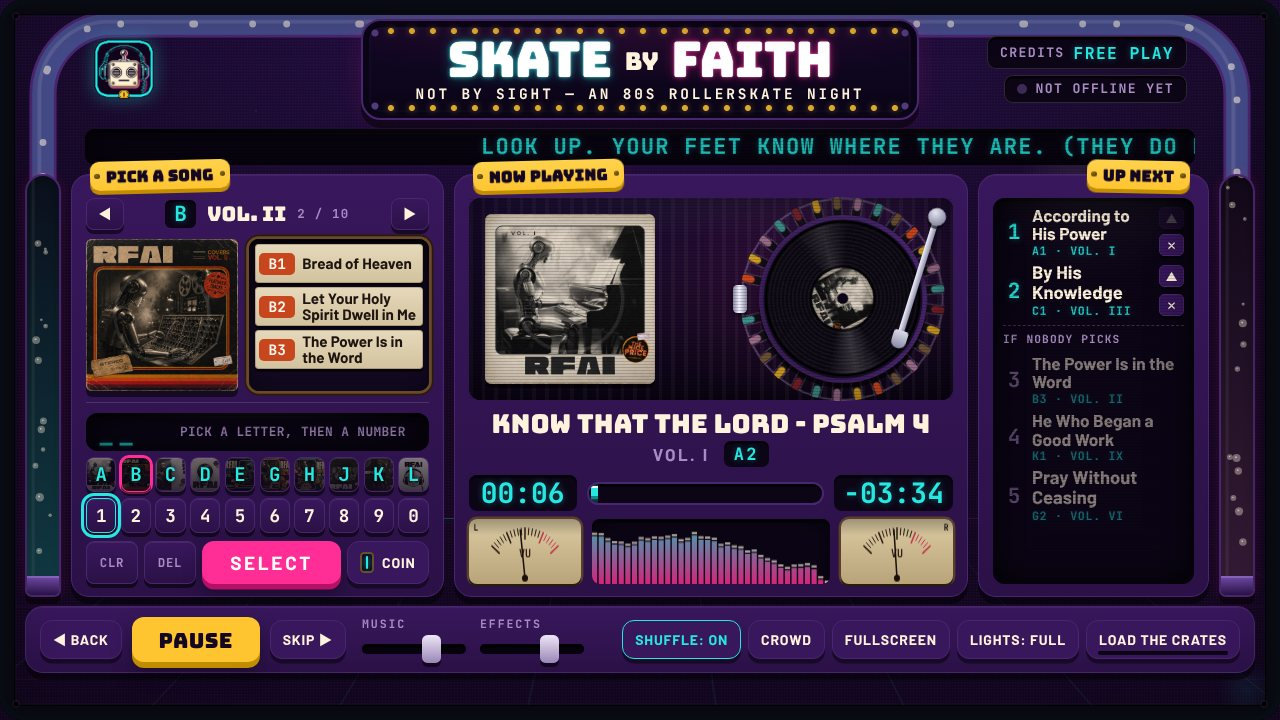
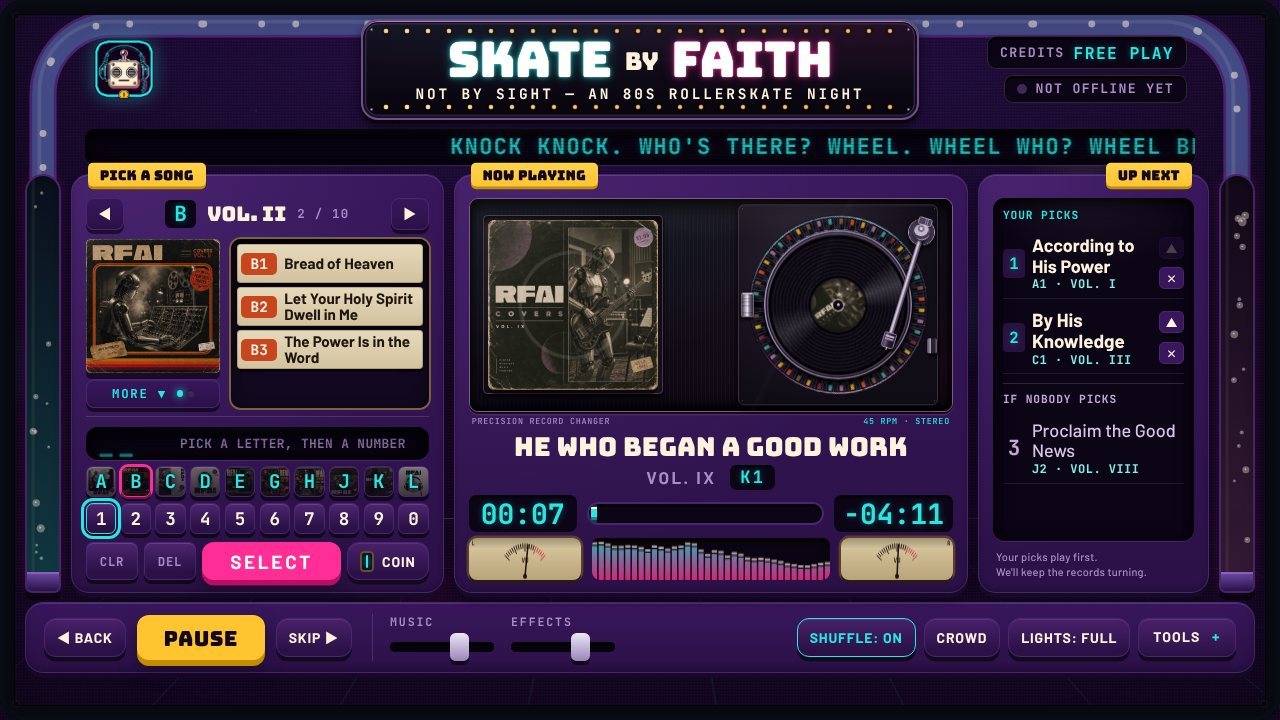
feat: MORE is a push-button; the strip window no longer scrolls
The title-strip window shows as many strips as fit (3 at 1280x720) and a
MORE push-button under the album cover turns to the next group, wrapping
back to the first, with a page-turn clack and small lamps showing which
group is up. Typing a code turns to the group holding its strip. No wheel
or scrollbar. The button sits under the cover (cover 134px at 720p, a
little smaller than before) and the selector was trimmed slightly to make
room. The crowd screen has no button and still shows every strip. All 47
codes tested. README and DESIGN updated.

Claude-Session: https://claude.ai/code/session_019UepSTK4gBiwDTjkX8XKsc

diff --git a/styles.css b/styles.css
@@ -482,7 +482,7 @@ body.on-attract .rig{ visibility:hidden; }
 
 /* ================= LEFT THIRD: the rack page + the selector ================= */
 /* one panel: the rack page on top, the selector keys underneath */
-.choose{ display:flex; flex-direction:column; gap:.55rem; }
+.choose{ display:flex; flex-direction:column; gap:.4rem; }
 .sr-only{ position:absolute; width:1px; height:1px; margin:-1px; padding:0; overflow:hidden; clip:rect(0 0 0 0); white-space:nowrap; border:0; }
 
 .rack-panel{ flex:1; min-height:0; display:flex; flex-direction:column; gap:.45rem; }
@@ -501,26 +501,36 @@ body.on-attract .rig{ visibility:hidden; }
 .rack-title{ font:400 1rem/1 var(--font-display); color:var(--cream); text-transform:uppercase; white-space:nowrap; }
 .rack-count{ font:700 .62rem var(--font-mono); letter-spacing:.1em; color:var(--dim); }
 
-/* the page: a big sleeve with its title strips beside it. The sleeve is as
-   tall as the page (square), capped so the strips keep room to read. */
-.rack-page{ flex:1; min-height:0; display:flex; gap:.55rem; }
-.rack-sleeve{ flex:0 0 auto; height:100%; aspect-ratio:1; max-width:46%; }
+/* the page: a big sleeve with its title strips beside it. The left column is
+   the cover with the MORE button under it, sized from the page's own height
+   (cqh), capped so the strips keep room to read. */
+.rack-page{ flex:1; min-height:0; display:flex; gap:.55rem; container-type:size; }
+.rack-side{ flex:none; width:min(calc(100cqh - 1.75rem), 46cqw); display:flex; flex-direction:column; gap:.3rem; }
+.rack-side .rack-sleeve{ width:100%; aspect-ratio:1; flex:none; }
+/* MORE: a chunky push-button; its lamps show which group of strips is showing */
+.more-btn{
+  flex:none; height:1.45rem; padding:0 .5rem; display:flex; align-items:center; justify-content:center; gap:.5rem; cursor:pointer;
+  font:700 .62rem var(--font-mono); letter-spacing:.14em; color:var(--cyan);
+  background:linear-gradient(180deg, var(--cab-2), var(--cab)); border:1px solid var(--cab-edge); border-radius:.4rem;
+  box-shadow:0 .2rem 0 rgba(0,0,0,.55), inset 0 1px 0 rgba(255,255,255,.08);
+  transition:transform .08s var(--ease-out), box-shadow .08s var(--ease-out);
+}
+.more-btn:hover:not(:disabled){ border-color:var(--cyan); color:#E9FFFE; }
+.more-btn:active:not(:disabled){ transform:translateY(.18rem); box-shadow:0 .03rem 0 rgba(0,0,0,.55), inset 0 0 .5rem rgba(37,232,226,.35); }
+.more-btn:disabled{ opacity:.35; cursor:default; color:var(--dim); }
+.more-lamps{ display:inline-flex; gap:.22rem; }
+.more-lamps i{ width:.32rem; height:.32rem; border-radius:50%; background:#3d2a55; box-shadow:inset 0 .05rem 0 rgba(0,0,0,.5); }
+.more-lamps i.is-on{ background:var(--cyan); box-shadow:0 0 .4rem var(--cyan); }
+.strip.is-off{ display:none; }
 .rack-sleeve .sleeve{ box-shadow:0 .3rem 0 rgba(0,0,0,.55), inset 0 0 0 1px rgba(60,40,10,.35); }
 
 /* the title strips: read-only paper in a dark brass-framed window */
-.strips-wrap{ position:relative; flex:1; min-width:0; display:flex; }
+.strips-wrap{ flex:1; min-width:0; display:flex; }
 .strips{
-  flex:1; min-width:0; align-self:stretch; min-height:0; overflow-y:auto; overflow-x:hidden;
+  flex:1; min-width:0; align-self:stretch; min-height:0; overflow:hidden;      /* never scrolls: the MORE button turns the page */
   padding:.28rem; border-radius:.5rem; background:linear-gradient(180deg,#0d0618,#140a24);
   box-shadow:var(--inset),0 0 0 .1rem #80613D;
-  scrollbar-width:thin; scrollbar-color:var(--cab-edge) transparent;
 }
-.strips-more{
-  position:absolute; left:50%; bottom:.35rem; z-index:2; transform:translateX(-50%); pointer-events:none;
-  padding:.12rem .45rem; border-radius:.25rem; background:var(--screen); box-shadow:0 0 0 1px var(--cab-edge), 0 -.6rem .8rem rgba(13,6,24,.9);
-  font:700 .55rem/1 var(--font-mono); letter-spacing:.12em; color:var(--cyan); opacity:0; transition:opacity .2s ease;
-}
-.strips-more.is-shown{ opacity:1; }
 .strips-empty{ margin:1rem .4rem; color:var(--dim); font:700 .66rem var(--font-mono); letter-spacing:.08em; text-align:center; }
 .strip{
   --paper:linear-gradient(180deg,#E6D9BB,#D2C29E);
@@ -551,7 +561,7 @@ body.on-attract .rig{ visibility:hidden; }
 
 /* ---- the selector ---- */
 .keypad-panel{ flex:0 0 auto; display:flex; flex-direction:column; gap:.3rem; padding-top:.5rem; border-top:1px solid var(--line); }
-.readout{ display:grid; grid-template-columns:auto 1fr; align-items:center; gap:.7rem; padding:.15rem .6rem; min-height:1.9rem; }
+.readout{ display:grid; grid-template-columns:auto 1fr; align-items:center; gap:.7rem; padding:.1rem .6rem; min-height:1.65rem; }
 .readout-code{ position:relative; z-index:1; font-size:1.35rem; line-height:1; letter-spacing:.14em; min-width:3.4rem; opacity:.7; }
 .readout-code.is-typing{ opacity:1; }
 .readout-msg{ position:relative; z-index:1; font:700 .64rem/1.2 var(--font-mono); letter-spacing:.03em; color:var(--cream); }
@@ -562,7 +572,7 @@ body.on-attract .rig{ visibility:hidden; }
 .key-letters{ display:grid; grid-template-columns:repeat(var(--letter-cols, 10), minmax(0,1fr)); gap:.22rem; }
 .key-digits{ display:grid; grid-template-columns:repeat(10, minmax(0,1fr)); gap:.22rem; }
 .key{
-  height:1.75rem; padding:0; cursor:pointer; line-height:1;
+  height:1.55rem; padding:0; cursor:pointer; line-height:1;
   font:700 .88rem var(--font-mono); color:var(--cream);
   background:linear-gradient(180deg,#4D2670,var(--cab) 80%); border:1px solid var(--cab-edge); border-radius:.35rem;
   box-shadow:0 .2rem 0 #12081E,inset 0 1px 0 rgba(226,190,255,.17);
@@ -583,7 +593,7 @@ body.on-attract .rig{ visibility:hidden; }
   box-shadow:0 .04rem 0 rgba(0,0,0,.55), inset 0 0 .6rem rgba(37,232,226,.45), 0 0 .5rem rgba(37,232,226,.3);
 }
 .key-letter.is-latched{ background:linear-gradient(180deg, rgba(37,232,226,.18), rgba(12,5,22,.6)), var(--cover, none) center / cover, var(--cab); }
-.keypad-actions{ display:grid; grid-template-columns:2.6rem 2.6rem minmax(0,1fr) auto; grid-template-rows:2.15rem; gap:.3rem; align-items:stretch; margin-top:.1rem; }
+.keypad-actions{ display:grid; grid-template-columns:2.6rem 2.6rem minmax(0,1fr) auto; grid-template-rows:1.9rem; gap:.3rem; align-items:stretch; margin-top:.1rem; }
 .keypad-actions .key{ height:auto; }
 #btn-coin{ display:inline-flex; align-items:center; gap:.4rem; padding:.4rem .6rem; }
 .coin-slot{ position:relative; width:.7rem; height:1.05rem; border-radius:.2rem; background:var(--screen); box-shadow:inset 0 0 0 .1rem #6a4a2a; flex:none; }
@@ -842,7 +852,9 @@ body.is-crowd .rig{ grid-template-rows:auto auto minmax(0,1fr); padding-bottom:1
 body.is-crowd .rack-bar{ grid-template-columns:minmax(0,1fr); }
 /* nobody can scroll the crowd screen, so every strip must show: the strips
    take the height they need and the sleeve shrinks to fit what is left */
-body.is-crowd .rack-page{ flex-direction:column; align-items:center; gap:.6rem; }
+body.is-crowd .rack-page{ flex-direction:column; align-items:center; gap:.6rem; container-type:normal; }
+body.is-crowd .rack-side{ display:contents; }
+body.is-crowd .more-btn{ display:none; }
 body.is-crowd .rack-sleeve{ flex:1 1 0; min-height:5rem; height:auto; width:auto; max-width:100%; max-height:13rem; aspect-ratio:1; }
 body.is-crowd .rack-sleeve .sleeve{ width:auto; height:100%; }
 body.is-crowd .strips-wrap{ width:100%; flex:0 0 auto; }

diff --git a/ui.js b/ui.js
@@ -114,12 +114,16 @@ export function createUI({ library, getStatus, handlers }) {
     const sleeve = rackSleeves.get(volumeId);
     if ($('rack-sleeve').firstChild !== sleeve) $('rack-sleeve').replaceChildren(sleeve);
 
+    if (stripsVolumeId !== volumeId) stripPage = 0;       // a new album starts on its first page
+    stripsVolumeId = volumeId;
     stripsEl.replaceChildren();
     stripRows.clear();
     stripsEl.dataset.accent = v.accent || 'gold';
     const list = library.tracks.filter((t) => t.volume === volumeId);
     if (list.length === 0) {
       stripsEl.append(el('p', { class: 'strips-empty' }, 'NO SONGS ON THIS ALBUM YET'));
+      stripPages = [];
+      updateMoreButton();
       return;
     }
     for (const t of list) {
@@ -135,19 +139,77 @@ export function createUI({ library, getStatus, handlers }) {
       stripRows.set(t.id, row);
       stripsEl.append(row);
     }
-    stripsEl.scrollTop = 0;
-    updateMoreCue();
+    paginateStrips();
   }
 
-  /* An album with more songs than fit scrolls inside the strip window. The
-     MORE tag shows while there are songs below, and typing a code scrolls
-     its strip into view. */
-  function updateMoreCue() {
-    const below = stripsEl.scrollHeight - stripsEl.clientHeight - stripsEl.scrollTop;
-    $('strips-more').classList.toggle('is-shown', below > 12);
+  /* ---- MORE: the strip window never scrolls ----
+     Like the title-strip window on a real jukebox, it shows as many strips as
+     fit and a push-button under the cover turns to the next group (and, after
+     the last, back to the first). Typing a code turns to the group that holds
+     its strip. The crowd screen has no button, so it shows every strip. */
+  const moreBtn = $('strips-more');
+  let stripPages = [];            // arrays of rows, one per group
+  let stripPage = 0;
+  let stripsVolumeId = null;
+
+  function paginateStrips() {
+    const rows = [...stripRows.values()];
+    rows.forEach((r) => r.classList.remove('is-off'));
+    stripPages = [];
+    if (document.body.classList.contains('is-crowd')) {
+      if (rows.length) stripPages = [rows];
+    } else {
+      const css = getComputedStyle(stripsEl);
+      const room = stripsEl.clientHeight - parseFloat(css.paddingTop) - parseFloat(css.paddingBottom);
+      let group = [];
+      let used = 0;
+      for (const row of rows) {
+        const h = row.offsetHeight + (parseFloat(getComputedStyle(row).marginBottom) || 0);
+        if (group.length && used + h > room + 1) { stripPages.push(group); group = []; used = 0; }
+        group.push(row);
+        used += h;
+      }
+      if (group.length) stripPages.push(group);
+    }
+    stripPage = Math.min(stripPage, Math.max(0, stripPages.length - 1));
+    showStripPage();
   }
-  stripsEl.addEventListener('scroll', updateMoreCue, { passive: true });
-  window.addEventListener('resize', updateMoreCue);
+
+  function showStripPage() {
+    stripPages.forEach((group, i) => group.forEach((r) => r.classList.toggle('is-off', i !== stripPage)));
+    updateMoreButton();
+  }
+
+  function updateMoreButton() {
+    const pages = stripPages.length;
+    moreBtn.disabled = pages < 2;
+    moreBtn.setAttribute('aria-label', pages < 2
+      ? 'All songs on this album are showing'
+      : `More songs on this album: showing group ${stripPage + 1} of ${pages}`);
+    $('more-lamps').replaceChildren(...(pages < 2 ? [] : stripPages.map((_, i) => el('i', { class: i === stripPage ? 'is-on' : '' }))));
+  }
+
+  function turnStrips(next) {
+    if (next === stripPage || next < 0 || next >= stripPages.length) return;
+    stripPage = next;
+    showStripPage();
+    if (!isCalm()) {
+      stripsEl.animate(
+        [{ opacity: 0.3, transform: 'translateY(.5rem)' }, { opacity: 1, transform: 'none' }],
+        { duration: 220, easing: 'cubic-bezier(.2,.7,.2,1)' },
+      );
+    }
+  }
+
+  moreBtn.addEventListener('click', () => {
+    if (stripPages.length < 2) return;
+    turnStrips((stripPage + 1) % stripPages.length);
+    handlers.stripsTurned?.();
+    moreBtn.blur();                                       // so Space / arrow keys keep driving the music
+  });
+  let paginateTimer = 0;
+  window.addEventListener('resize', () => { clearTimeout(paginateTimer); paginateTimer = setTimeout(paginateStrips, 120); });
+  if (document.fonts?.ready) document.fonts.ready.then(paginateStrips).catch(() => {});
 
   /* Refresh strip states in place. Only a status shows (NOW, Q1, OUT OF ORDER);
      song lengths are left off so the titles get the room. */
@@ -209,7 +271,7 @@ export function createUI({ library, getStatus, handlers }) {
     for (const [id, row] of stripRows) {
       const isTyped = buffer.length > 1 && trackById.get(id).code === buffer;
       row.classList.toggle('is-typed', isTyped);
-      if (isTyped) row.scrollIntoView({ block: 'nearest' });
+      if (isTyped) turnStrips(stripPages.findIndex((group) => group.includes(row)));
     }
   }
 

diff --git a/index.html b/index.html
@@ -104,10 +104,14 @@
           <button type="button" class="rack-nav" id="rack-next" aria-label="Next album">&#9654;</button>
         </div>
         <div class="rack-page">
-          <div class="rack-sleeve" id="rack-sleeve"></div>
+          <div class="rack-side">
+            <div class="rack-sleeve" id="rack-sleeve"></div>
+            <button type="button" class="more-btn" id="strips-more" disabled aria-label="More songs on this album">
+              <span class="more-label">MORE &#9660;</span><span class="more-lamps" id="more-lamps" aria-hidden="true"></span>
+            </button>
+          </div>
           <div class="strips-wrap">
             <div class="strips" id="strips" role="list" aria-label="Songs on this album"></div>
-            <span class="strips-more" id="strips-more" aria-hidden="true">&#9660; MORE</span>
           </div>
         </div>
       </div>

diff --git a/app.js b/app.js
@@ -124,6 +124,7 @@ async function main() {
     getStatus,
     handlers: {
       openVolume: (id) => { sfx.page(); ui.renderStrips(id); scheduleRender(); },
+      stripsTurned: () => sfx.page(),
       keyPressed: (key) => { noteInput(); keyPressed(key); },
       moveUp: (i) => { queue = moveUp(queue, i); sfx.key(); afterQueueChange(); },
       cancel: (i) => { queue = cancelAt(queue, i); sfx.key(); afterQueueChange(); },

diff --git a/DESIGN.md b/DESIGN.md
@@ -141,8 +141,8 @@ worker.
   window: `min(window width / 64, window height / 36)`. A 16:9 projector shows
   the same picture at any resolution. The design canvas is **64 x 36 rem**
   (1280 x 720 at 20 px per rem). Check every change at **1280 x 720**.
-- `body` never scrolls. The only internal scrolling is the title-strip list when
-  a volume has more songs than fit.
+- Nothing on the control screen scrolls. The title-strip window shows as many
+  strips as fit and a **MORE** push-button turns to the next group (see below).
 - Rows: marquee, LED ticker, cabinet, operator deck, key legend.
 - Cabinet columns: tube | **PICK A SONG** (one third) | **NOW PLAYING** + **UP
   NEXT** (two thirds, split 1.38 : 0.62) | tube.
@@ -152,8 +152,9 @@ worker.
   fasteners and a dark recessed face. Glass lamps stay fixed in their channels;
   a separately masked light chase passes over them rather than sliding the bulbs.
 - PICK A SONG is one panel: the rack page on top (one album at a time - a big
-  sleeve as tall as the page, capped at 46% of the width so the title strips
-  keep room for two-line titles, with arrows to flip albums) and the selector
+  sleeve with the MORE button under it, the pair as tall as the page and capped
+  at 46% of the width so the title strips keep room for two-line titles, with
+  arrows to flip albums) and the selector
   underneath (readout, letter keys wearing a dimmed copy of their cover, number
   keys, CLR / DEL / SELECT / COIN).
 - Pressing a letter key (or typing it) flips the rack to that album, so the
@@ -162,9 +163,18 @@ worker.
   the UP NEXT titles and the ticker. The strips are reference material for the
   operator; status (NOW / Q2 / OUT OF ORDER) is a small tag clipped onto the
   strip's corner so titles keep the full width.
-- About 3 songs per album fit without scrolling at 1280 x 720; a 4th scrolls
-  inside the strip window. A **▼ MORE** tag shows while songs are hidden below,
-  and a fully typed code outlines its strip in cyan and scrolls it into view.
+- **MORE** (`ui.js: paginateStrips`): the strip window never scrolls (no wheel,
+  no scrollbar), like a real jukebox's title-strip window. It measures how many
+  strips fit (3 at 16:9 sizes such as 1280 x 720 and 1920 x 1080; taller windows
+  like 1024 x 768 fit all 5) and splits the album into groups. The **MORE ▼** push-button under the
+  cover turns to the next group, and after the last group back to the first,
+  with a page-turn clack (`sfx.page`) and a quick slide. Small lamps on the
+  button show which group is showing; the button is dimmed and disabled when
+  every strip fits. A fully typed code turns to the group holding its strip and
+  outlines it in cyan. The groups re-measure on resize and when fonts load,
+  and the group number is kept when the album re-renders (e.g. when a song
+  changes) but reset to the first when the album changes. The crowd screen has
+  no button and shows every strip (it hides MORE and uses a taller layout).
 - Transport, music/effects faders, SHUFFLE, CROWD and LIGHTS remain on the deck.
   TOOLS groups FULLSCREEN, LOAD THE CRATES and KEYBOARD SHORTCUTS. The native
   disclosure supports mouse, Enter and Space, closes on Escape or an outside

diff --git a/README.md b/README.md
@@ -134,10 +134,11 @@ Vol. VI is **G**, not F. This table is also written at the top of
 **Where to put new songs:** spread them evenly, fewest songs first (right
 now Vol. I - VII have 5 songs and Vol. VIII - X have 4; the next songs go on
 Vol. VIII, then IX, then X). Add each new song at the **end** of the
-`tracks = [` list, so no existing code changes. An album with more than 3 songs
-still works: its strips scroll on the laptop (mouse wheel or trackpad), a small
-**▼ MORE** tag shows there are songs below, and typing a code scrolls its
-strip into view. The crowd screen shows every song without scrolling.
+`tracks = [` list, so no existing code changes. An album with more songs than
+fit still works: the laptop's strip window shows a group of songs and the
+**MORE ▼** button under the album cover turns to the next group (tiny lamps on
+the button show which group you are on). Typing a code turns to the right group
+by itself. The crowd screen shows every song, no button needed.
 
 **Adding a whole new album (volume):** add a line inside the `volumes = [` list:
 
@@ -248,7 +249,10 @@ open crowd screen picks the jukebox back up on its own). The queue starts empty 
   or press a **letter key** (on screen or keyboard) - the rack jumps to that
   album. Then press the number and **SELECT** (or type it, for example `B`,
   `1`, `Enter`). The title strips are for reading only - clicking a strip does
-  nothing. The chosen song joins **UP NEXT** (right-hand column).
+  nothing. An album with more songs than fit shows them in groups: press the
+  **MORE ▼** button under the album cover to see the next group (it goes back
+  to the first after the last). The chosen song joins **UP NEXT** (right-hand
+  column).
 - The scrolling LED strip under the sign rolls **one skate joke at a time**,
   picked at random from 117 (no repeats until every one has had a turn), with
   a separate set of 20 for when the music is stopped or paused. To add or
